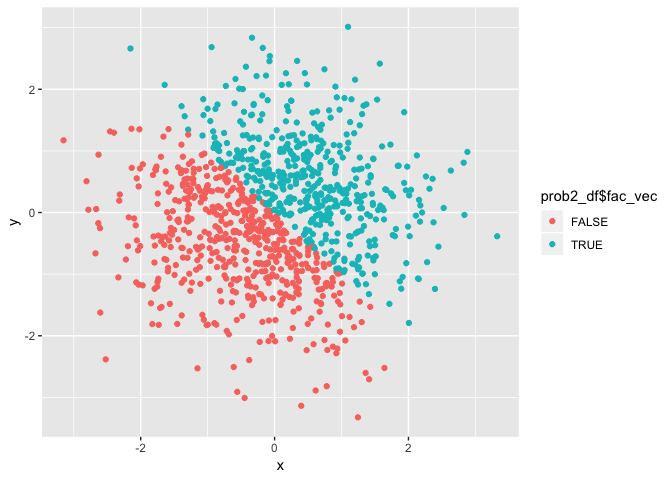
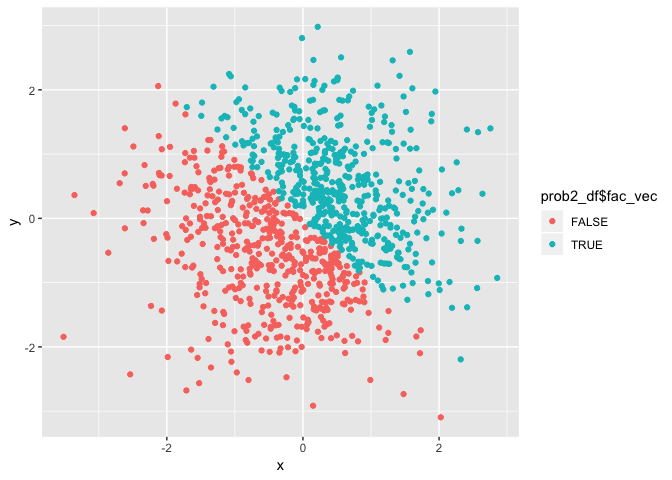
Editing my markdown documents

diff --git a/HW1.md b/HW1.md
@@ -2,13 +2,12 @@ Homework 1
 ================
 
 Sept 21, 2018
-=============
+-------------
 
 Francois Ban
-============
+------------
 
-Problem 1
----------
+### Problem 1
 
 Below is a dataframe containing four different vectors:
 
@@ -87,8 +86,7 @@ as.numeric(fac_to_char)
 
 It is possible to convert a character vector to a factor vector to a numeric vector but it is not possible to convert a factor vector to a character vector to a numeric vector.
 
-Problem 2
----------
+### Problem 2
 
 Below is a dataframe for Problem 2:
 
@@ -104,7 +102,7 @@ prob2_df = tibble(
 )
 ```
 
-My factor vector created above has 1000, a mean of -0.0192914, a median of `median(prob2_df$x)`, and a proportion of cases 0.482.
+My factor vector created above has 1000, a mean of 7.859203610^{-4}, a median of `median(prob2_df$x)`, and a proportion of cases 0.506.
 
 Below is a scatterplot of x and y that colors the points based on the logical variable:
 
@@ -140,4 +138,6 @@ plot_3
 
 Exporting the first scatterplot (sp\_log\_vec) to my project directory.
 
-`ggsave("scatterplot_log_vec.pdf", plot = plot_1, height = 4, width = 6)`
+``` r
+ggsave("scatterplot_log_vec.pdf", plot = plot_1, height = 4, width = 6)
+```
